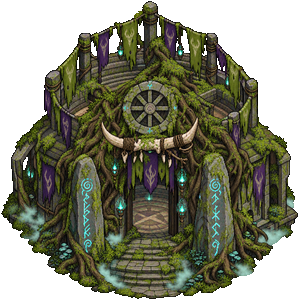
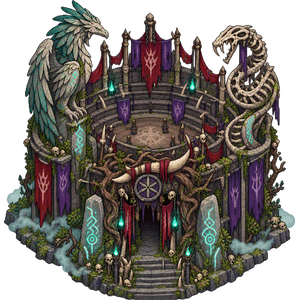
Arte da Guerra de Clãs escolhida pelo dono: NPC Mirevesper e lote do coliseu
Troca os placeholders por guerra-5 (NPC 768²) e guerra-6 (lote 300², recortado pela bbox do alfa),
recalcula a caixa de arena:guerra e atualiza os comentários/docs.

diff --git a/src/assets/soulmon/npcs/index.ts b/src/assets/soulmon/npcs/index.ts
@@ -87,7 +87,7 @@ export const LOT_NPC_ART: Record<string, string> = {
   'mercado:restaurante': npcMercadoRestaurante, // Tijolino, o caranguejo pedreiro (14/10/2026; restaurante em obra)
   'arena:torneio': npcArena,
   'arena:duelo': npcArenaDuelo, // Naia (07/10/2026: trocou o Tuska)
-  'arena:guerra': npcArenaGuerra, // PLACEHOLDER até a arte própria — ver docs/ARTE-MELHORIAS-FUTURAS.md
+  'arena:guerra': npcArenaGuerra, // Mirevesper: arte escolhida pelo dono em 18/10/2026 — ver docs/ARTE-MELHORIAS-FUTURAS.md
   'hall:feira': npcArenaFeira, // Fanfare (`utils/fairArt.ts` › FAIR_ART_IDS.npc)
   'exploracao:masmorra': npcExploracao,
   'exploracao:passeio': npcExploracaoPasseio, // Brume

diff --git a/src/assets/soulmon/areas/index.ts b/src/assets/soulmon/areas/index.ts
@@ -38,7 +38,7 @@ export const MERCADO_LOT_ART = {
   restaurante: loteRestaurante,
 } as const;
 
-// PLACEHOLDER até a arte própria da guerra (lote-arena-guerra = cópia do torneio) — ver docs/ARTE-MELHORIAS-FUTURAS.md
+// Arte da guerra escolhida pelo dono em 18/10/2026 (arena-coliseu com grifo e serpente de ossos) — ver docs/ARTE-MELHORIAS-FUTURAS.md
 export const ARENA_LOT_ART = { torneio: loteTorneio, duelo: loteDuelo, guerra: loteGuerra } as const;
 
 // ── Exploração e Jogos (F5, PR #118) ───────────────────────────────────────

diff --git a/src/utils/areaLotGeometry.ts b/src/utils/areaLotGeometry.ts
@@ -31,7 +31,7 @@ export const LOT_ART_BOUNDS: Record<string, LotBounds> = {
   'mercado:restaurante': [0.027, 0.277, 0.97, 0.97],
   'arena:torneio': [0.073, 0, 0.927, 1],
   'arena:duelo': [0.167, 0, 0.833, 1],
-  'arena:guerra': [0.003, 0.003, 0.993, 0.997], // arte própria (Mirevesper/pavilhão, 18/10/2026)
+  'arena:guerra': [0.013, 0, 0.983, 1], // arte escolhida pelo dono (18/10/2026): arena-coliseu com grifo e serpente de ossos, alfa > 20
   'hall:feira': [0.153, 0.12, 0.847, 0.973],
   'exploracao:masmorra': [0.23, 0, 0.767, 1],
   'exploracao:passeio': [0.243, 0.12, 0.76, 0.973],

diff --git a/docs/ARTE-MELHORIAS-FUTURAS.md b/docs/ARTE-MELHORIAS-FUTURAS.md
@@ -342,3 +342,5 @@ Prompt: `Isometric pixel art, 3/4 top-down view, a single small blacksmith forge
 **PT (18/10/2026, D-19/D-20).** A Guerra de Clãs da Arena usa PLACEHOLDER: `src/assets/soulmon/areas/lote-arena-guerra.png` (cópia do Torneio) e `src/assets/soulmon/npcs/npc-arena-guerra.png` (cópia do NPC do Torneio). Geração não rodou (codex sem cota até 10/11; sem CLI Higgsfield na sessão). Pedido: NPC = criatura PRÓPRIA inspirada só no conceito de quimera pestilenta (não copiar nenhuma criatura existente): quimera de 2 cabeças (felino de juba de musgo com chifres de espinho + cabeça serpentina de lagarto do brejo), asas membranosas de morcego com veios de esporos, névoa verde doentia, líquen; sem armadura, sem metal. Elementos Pântano + Sombra; arauto da guerra com faixa de cipó e trompa de osso. Cores: verde-musgo doentio, violeta-hematoma, marfim, turquesa #5FF3E0. Molde canônico de NPC do dono; `gpt_image_2 --background transparent` (ou `gpt_image_2_5` flare). Prédio: pavilhão de pedra antiga tomado por raízes, dois menires, estandartes verde x violeta, trompa de osso, lanternas turquesa; sem engrenagem. Trocar só os PNGs (e a caixa em `areaLotGeometry.ts`).
 
 **PT (18/10/2026) — placeholders da Guerra resolvidos.** NPC Mirevesper, lote do pavilhão, 4 chips, presente e 4 frutos instalados (ver `ASSETS-A-GERAR.md`). Pendente: sprites por estágio da planta (hoje haste/folhas em SVG; `fruit-broto.png` já gerado, falta slot), arte de fundo/canteiro de Praça, Plantio e Mistério, e o lote da guerra é natureza+magia enquanto os vizinhos são isométricos metálicos (decisão de vibe do dono).
+
+**PT (18/10/2026) — arte da Guerra escolhida pelo dono.** NPC Mirevesper (quimera de 2 cabeças com crânios de osso, asas roxas, corrente e trompa) e lote (arena-coliseu com grifo de penas e serpente de ossos) foram gerados e escolhidos pelo dono; instalados em `npc-arena-guerra.png` (768²) e `lote-arena-guerra.png` (300², caixa [0.013, 0, 0.983, 1]). Troca por qualquer substituição futura (trocar só os PNGs e a caixa em `areaLotGeometry.ts`).
